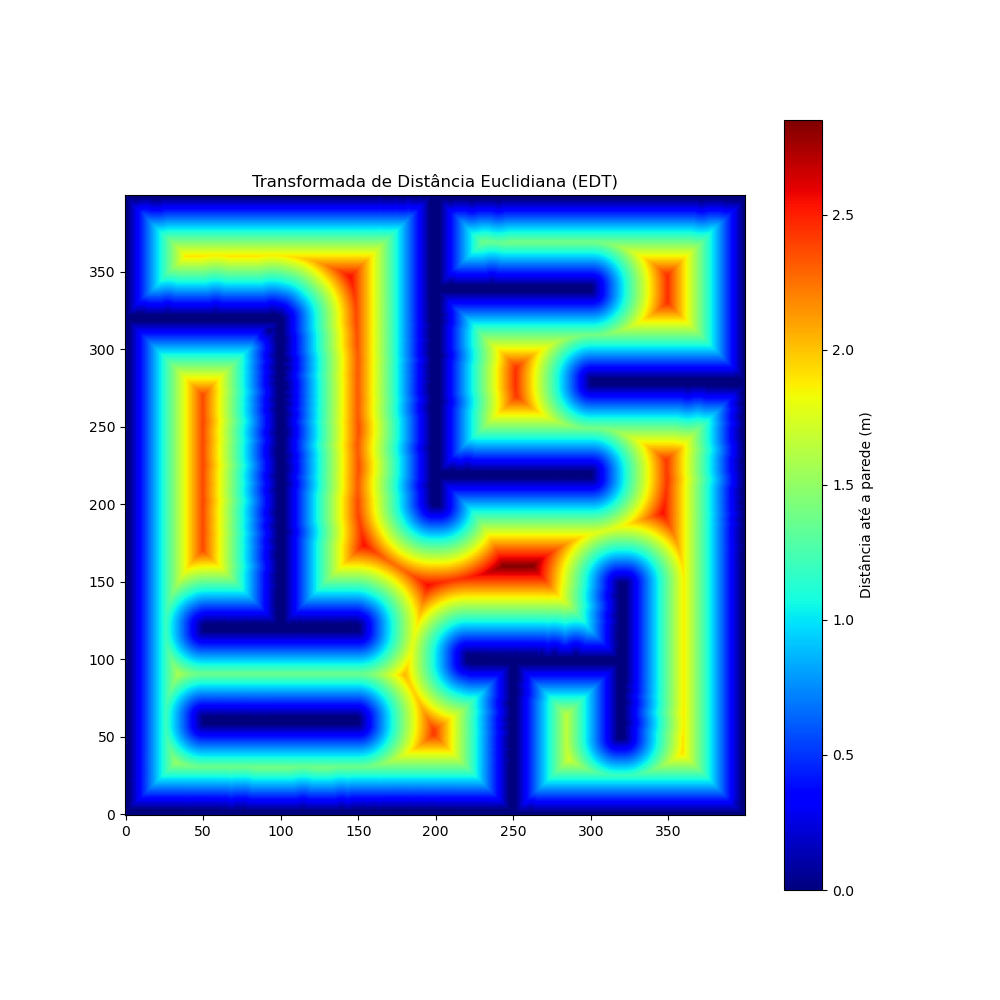
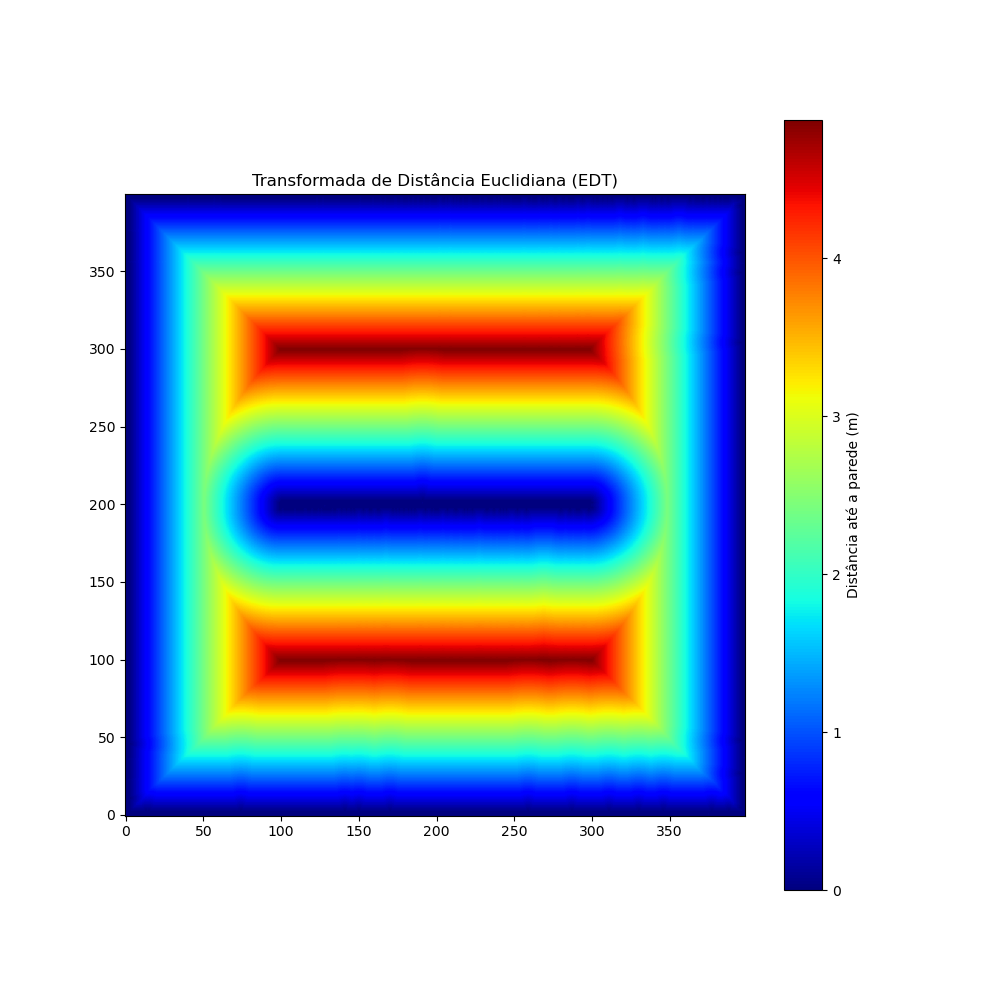
feat: first functional tests

diff --git a/src/mobile_robot_bringup/launch/multi_navigation.launch.py b/src/mobile_robot_bringup/launch/multi_navigation.launch.py
@@ -13,15 +13,31 @@ from ament_index_python.packages import get_package_share_directory
 from launch_ros.actions import Node, PushRosNamespace
 from launch.substitutions import Command
 
+
+MAX_ROBOTS_DIST = 10.0
+
+
 '''
 ********************************************************************************
 * User defined params
 ********************************************************************************
 '''
+# robots = [
+#     {"name":"robot1","x":"-0","y":"-2"},
+#     {"name":"robot2","x":"-2","y":"1"},
+#     {"name":"robot3","x":"-3","y":"-6"}
+# ]
+
+# robots = [
+#     {"name":"robot1","x":"0","y":"-6"},
+#     {"name":"robot2","x":"-4","y":"-8"},
+#     {"name":"robot3","x":"-8","y":"-8"}
+# ]
+
 robots = [
-    {"name":"robot1","x":"1","y":"-3"},
-    {"name":"robot2","x":"-2","y":"-1"},
-    {"name":"robot3","x":"-1","y":"-5"}
+    {"name":"robot1","x":"7","y":"0"},
+    {"name":"robot2","x":"4","y":"-2"},
+    {"name":"robot3","x":"0","y":"-2"}
 ]
 
 lifecycle_managed_nodes = ["map_server"]
@@ -43,7 +59,7 @@ bringup_pkg = 'mobile_robot_bringup'
 ********************************************************************************
 '''
 world_path = os.path.join(
-    get_package_share_directory(bringup_pkg), 'worlds', 'proj_world.world'
+    get_package_share_directory(bringup_pkg), 'worlds', 'simpler.world'
     )
 rviz_config_file = os.path.join(
     get_package_share_directory(bringup_pkg), 'config', 'rviz_config.rviz'
@@ -75,7 +91,7 @@ nav2_bringup_dir = get_package_share_directory('nav2_bringup')
 bringup_launch_file = os.path.join(nav2_bringup_dir, 'launch', 'bringup_launch.py')
 
 map_file = os.path.join(
-    get_package_share_directory(bringup_pkg), 'maps', 'my_map.yaml'
+    get_package_share_directory(bringup_pkg), 'maps', 'simpler_map.yaml'
 )
 
 '''
@@ -262,7 +278,7 @@ def generate_launch_description():
         lifecycle_managed_nodes.append(f"{name}/bt_navigator")
 
         delayed_nav_nodes = TimerAction(
-            period=5.0, 
+            period=7.0, 
             actions=[pose_node, amcl_node, planner_node, controller_node,behavior_node,bt_navigator_node]
         )
         
@@ -283,20 +299,6 @@ def generate_launch_description():
     launch_nodes.append(lifecycle_manager_node) #tavlez adicionar um delay aqui
     
 
-
-
-
-    # marker_node = Node(
-    #     package="line_viewer",
-    #     executable="line_viewer",
-    #     name="line_viewer_node",
-    #     parameters=[
-    #         {"robot_list":get_all_robot_names(robots)},
-    #     ]
-    # )
-    # launch_nodes.append(marker_node)
-
-
     marker_node = Node(
         package="line_viewer",
         executable="RobotsPositionNode",
@@ -314,7 +316,7 @@ def generate_launch_description():
         name="RobotsMathNode",
         parameters=[
             {"robots_list":get_all_robot_names(robots)},
-            {"max_robots_dist":10.0},
+            {"max_robots_dist":MAX_ROBOTS_DIST},
             {"min_dist_to_wall":0.1},
             {"max_dist_to_wall":1.0},
             {"laplacian_topic_name":"laplacian_matrix"},

diff --git a/src/line_viewer/line_viewer/RobotsControllerNode.py b/src/line_viewer/line_viewer/RobotsControllerNode.py
@@ -30,8 +30,8 @@ class RobotsControllerNode(Node):
         self.declare_parameter("ideal_cmd_vel_topic_name", "ideal_cmd_vel")
         self.ideal_cmd_vel_topic_name= self.get_parameter("ideal_cmd_vel_topic_name").value
 
-        self.epsilon = 0.2
-        self.gamma = 0.1
+        self.epsilon = 0.3
+        self.gamma = 0.3
 
         self.publishers_dict = {}
         self.subscriptions_dict_cmd_vel = {}
@@ -106,7 +106,7 @@ class RobotsControllerNode(Node):
         angular_velocity = msg.angular.z
 
         curr_robot = self.robots_instances[robot_name]
-        vx,vy = curr_robot.Linear_velocity_to_xy(linear_velocity,angular_velocity,0.1)
+        vx,vy = curr_robot.Linear_velocity_to_xy(linear_velocity,angular_velocity,0.15+0.15)
         self.velocities_vector = np.zeros((self.n_robots*2,1))
         self.velocities_vector[robot_index*2] = vx
         self.velocities_vector[robot_index*2+1] = vy
@@ -121,7 +121,7 @@ class RobotsControllerNode(Node):
             publisher = self.publishers_dict[robot_name]
             v_global = velocities_vector[2*i, 0]
             w_global = velocities_vector[2*i+1, 0]
-            v,w = robot.feedback_linearization_global_velocities_to_vw(v_global,w_global,0.1)
+            v,w = robot.feedback_linearization_global_velocities_to_vw(v_global,w_global,0.15+0.15)
             msg = Twist()
             msg.linear.x = v
             msg.angular.z = w
@@ -129,24 +129,21 @@ class RobotsControllerNode(Node):
 
 
 
-        
-
-
-
-
     def get_optimized_movement_vector(self,ideal_vector):
         lambda_2,_ = self.matrix_handler.Get_second_eingenvalue_and_eingenvector()
         barrier_val = - self.gamma * (lambda_2-self.epsilon)
 
-        projection = self.gradient_vector.T @ ideal_vector
+        projection = (self.gradient_vector.T @ ideal_vector).item()
         if projection > barrier_val:
             return ideal_vector
         n_vars = ideal_vector.shape[0]
 
         u = cp.Variable((n_vars, 1))
         objective = cp.Minimize(cp.sum_squares(u - ideal_vector))
+        max_vel = 5
         constraints = [
-            self.gradient_vector.T @ u >= barrier_val
+            self.gradient_vector.T @ u >= barrier_val,
+            cp.abs(u) <= max_vel
         ]
         problem = cp.Problem(objective, constraints)
     

diff --git a/src/line_viewer/line_viewer/MathHandler.py b/src/line_viewer/line_viewer/MathHandler.py
@@ -80,7 +80,7 @@ class MathHandler:
     def calculate_connection_score(self,r1:RobotClass, r2:RobotClass):
         dist_score = self.calculate_distance_score(r1,r2)
         sight_score = self.calculate_sight_score(r1,r2)
-        return dist_score*sight_score
+        return dist_score *sight_score
     
 
 
@@ -93,8 +93,8 @@ class MathHandler:
     def Get_gradient_vector(self):
         gradient_vector = np.zeros((self.n_nodes*2,1))
         counter = 0
-        for axis in ["x","y"]:
-            for r_index in range(self.n_nodes):
+        for r_index in range(self.n_nodes):
+            for axis in ["x","y"]:
                 grad_param = self.get_lambda2_derivative_with_respect_to(axis,r_index)
                 gradient_vector[counter,0] = grad_param
                 counter += 1
@@ -121,7 +121,7 @@ class MathHandler:
             new_derivative_adjacency_matrix[i,index] = score_derivative
         return new_derivative_adjacency_matrix
     
-    def compute_score_derivative(self,i,j,reference):
+    def compute_score_derivative(self,i,j,reference): #VFSA
         robots_dict = [self.parent.robots_instances[robot_name] 
                        for robot_name in self.parent.robots_list]
         r1:RobotClass = robots_dict[i]
@@ -131,7 +131,7 @@ class MathHandler:
         return (
             self.compute_sight_score_derivative(r1,r2,reference,cell) * 
             self.calculate_distance_score(r1,r2) +
-            self.compute_distance_score_derivate(r1,r2,reference) * 
+            self.compute_distance_score_derivate(r1,r2,reference) *
             self.calculate_sight_score(r1,r2)
         )
 

diff --git a/src/line_viewer/line_viewer/MapHandler.py b/src/line_viewer/line_viewer/MapHandler.py
@@ -78,15 +78,28 @@ class MapHandler:
         grid = np.array(self.map_data).reshape((height, width))
         binary_map = np.where((grid > 90) | (grid < 0), 0, 1)
         self.dist_transform = distance_transform_edt(binary_map) * self.map_info.resolution
-        self.dist_transform_y_derivative, self.dist_transform_x_derivative = np.gradient(self.dist_transform)
+        dy, dx = np.gradient(self.dist_transform, self.map_info.resolution)
+        self.dist_transform_y_derivative = dy
+        self.dist_transform_x_derivative = dx
 
     def generate_distances_colormap(self,path):
         plt.figure(figsize=(10, 10))
         plt.imshow(self.dist_transform, cmap='jet', origin='lower') 
-        
         plt.colorbar(label='Distância até a parede (m)')
         plt.title('Transformada de Distância Euclidiana (EDT)')
-        
+        plt.savefig(path)
+        plt.close()
+
+    def generate_gradient_colormap(self,path,axis):
+        plt.figure(figsize=(10, 10))
+        if axis =="x":
+            plt.imshow(self.dist_transform_x_derivative, cmap='jet', origin='lower') 
+        elif axis =="y":
+            plt.imshow(self.dist_transform_y_derivative, cmap='jet', origin='lower') 
+        else:
+            return
+        plt.colorbar(label='Distância até a parede (m)')
+        plt.title('Transformada de Distância Euclidiana (EDT)')
         plt.savefig(path)
         plt.close()
 

diff --git a/src/line_viewer/line_viewer/RobotsMathNode.py b/src/line_viewer/line_viewer/RobotsMathNode.py
@@ -23,7 +23,7 @@ class RobotsMathNode(Node):
         self.robots_list = self.get_parameter("robots_list").value
         self.robots_list = [] if self.robots_list == [''] else self.robots_list
 
-        self.declare_parameter("max_robots_dist", 10.0)
+        self.declare_parameter("max_robots_dist", 5.0)
         self.max_robots_dist = self.get_parameter("max_robots_dist").value
 
         self.declare_parameter("min_dist_to_wall", 0.1)
@@ -115,6 +115,8 @@ class RobotsMathNode(Node):
         )
         self.map_handler.compute_map_distance()
         self.map_handler.generate_distances_colormap("/home/victor/projects/final_proj_MR/images/map.png")
+        self.map_handler.generate_gradient_colormap("/home/victor/projects/final_proj_MR/images/map_x.png","x")
+        self.map_handler.generate_gradient_colormap("/home/victor/projects/final_proj_MR/images/map_y.png","y")
 
         self.math_handler = MathHandler(self)
 

diff --git a/src/line_viewer/line_viewer/RobotClass.py b/src/line_viewer/line_viewer/RobotClass.py
@@ -64,7 +64,7 @@ class RobotClass():
         
         v = np.clip(v_raw, -max_v, max_v)
         w = np.clip(w_raw, -max_w, max_w)
-        return v,w
+        return v_raw,w_raw
 
 
         
